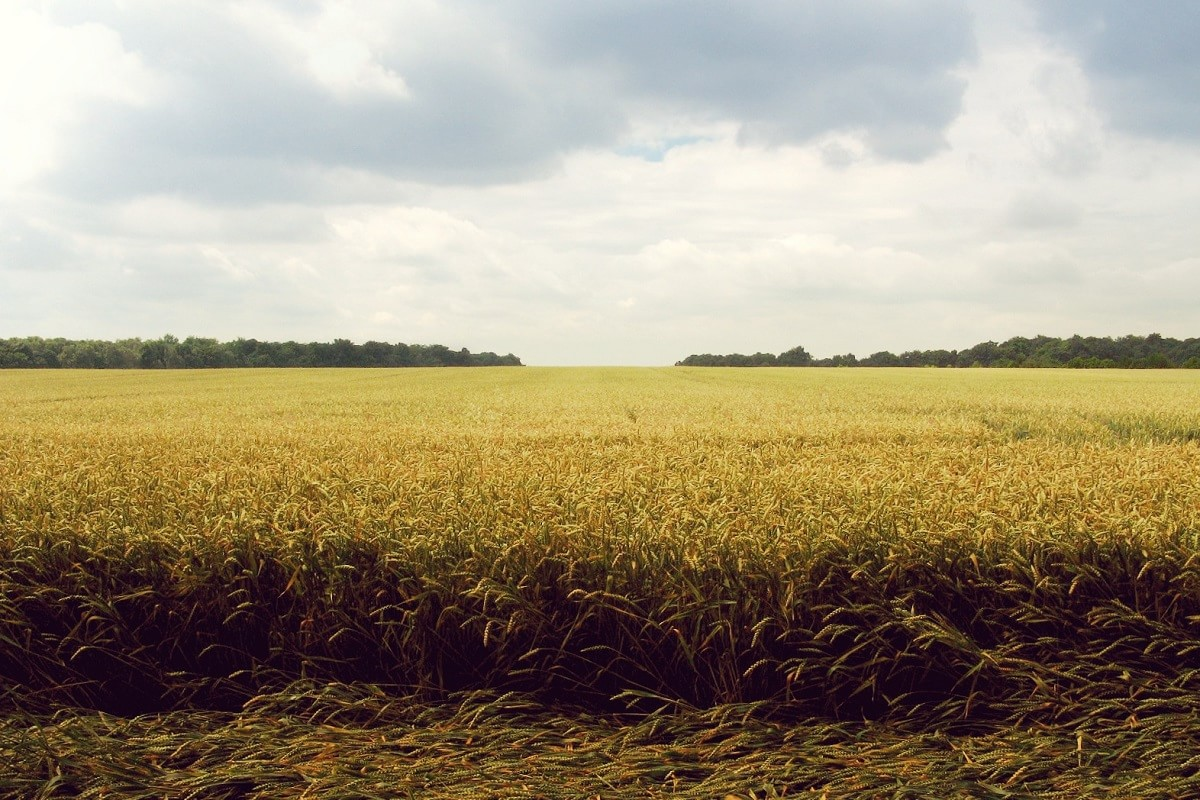
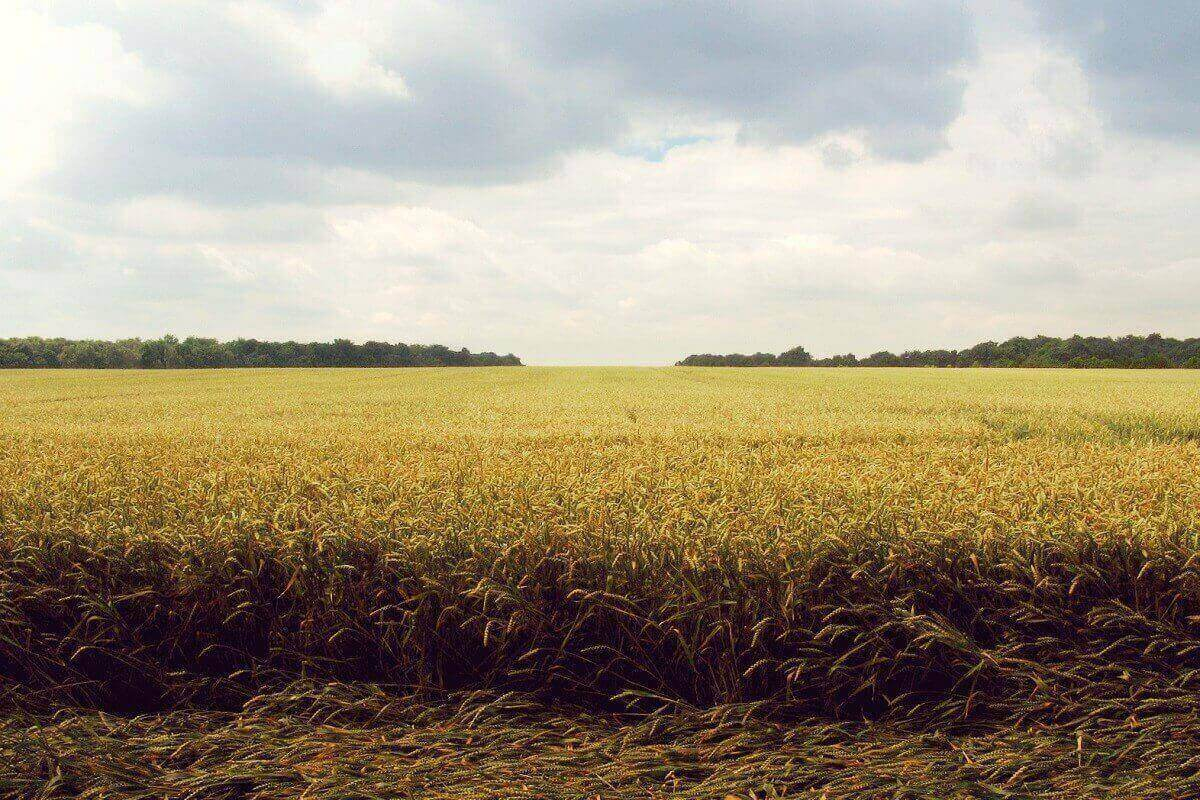
added real paypal button, compressed images

Changed region(s): [[0.0, 0.4062, 1.0, 1.0], [0.4317, 0.8125, 0.4933, 0.8438], [0.1233, 0.4062, 0.1542, 0.4375]]

diff --git a/assets/css/layout.css b/assets/css/layout.css
@@ -7554,224 +7554,3 @@ ul.search-history {
 	}
 
 }
-
-
-
-
-
-
-
-
-
-
-
-
-
-/** DEMO ONLY
-	DO NOT USE THIS CSS - USED FOR DEMO ONLY!
- **************************************************************** **/
-.iconsPreview a {
-	text-decoration:none;
-}
- .iconsPreview .fa-hover a {
-	display:block;
-	padding:4px;
-	text-decoration:none;
-}
-.iconsPreview .fa-hover a:hover {
-	background-color:#f3f3f3;
-}
-.iconsPreview .fa-hover i {
-	width:20px;
-	margin-right:10px;
-	color:#333 !important;
-}
-.iconsPreview .fa-hover a span {
-	color:#666;
-}
-/** *** **/
-
-.iconFlags a {
-	text-decoration:none;
-}
-.iconFlags .flag-icon {
-	padding-top:4px;
-	padding-bottom:4px;
-	cursor:pointer;
-	display:block;
-}
-.iconFlags .flag-icon img {
-	display:inline-block;
-	margin-right:6px;
-}
-.iconFlags .flag-icon:hover {
-	background-color:#f3f3f3;
-}
-
-.bs-glyphicons a {
-	text-decoration:none;
-}
-.bs-glyphicons .glyphicon-class {
-	display: block;
-	text-align: center;
-	word-wrap: break-word;
-}
-.bs-glyphicons .glyphicon {
-	margin-top: 5px;
-	margin-bottom: 10px;
-	font-size: 24px;
-}
-.bs-glyphicons li {
-	float: left;
-	width: 25%;
-	height: 115px;
-	padding: 10px;
-	font-size: 10px;
-	line-height: 1.4;
-	text-align: center;
-	border: 1px solid #fff;
-	background-color: #f9f9f9;
-	cursor:pointer;
-	padding-top: 20px;
-}
-.bs-glyphicons li:hover {
-	background-color:#f3f3f3;
-}
-@media (min-width: 769px) {
-	.bs-glyphicons li {
-		width: 12.5%;
-		font-size: 12px;
-	}
-}
-.iconExamples a {
-	text-decoration:none;
-}
-.iconExamples .example {
-	text-align: center;
-	cursor:pointer;
-	padding:6px 3px;
-}
-.iconExamples .example:hover {
-	background-color:#f3f3f3;
-}
-.iconExamples .example:before,
-.iconExamples .example:after {
-	content: " ";
-	display: table;
-}
-.iconExamples .example .icon {
-	font-size: 20px;
-	float: left;
-	width: 35px;
-}
-.iconExamples .example .class {
-	text-align: center;
-	float: left;
-	margin-top: 0;
-	font-weight: 400;
-	margin-left: 10px;
-	color: #333;
-}
-
-
-
-/** *** **/
-.row.show-grid,
-.row.show-grid>div {
-	padding:0;
-}
-.grid-block {
-	background-color: #EEE;
-	border: 1px solid #FFF;
-	display: block;
-	line-height: 40px;
-	min-height: 40px;
-	text-align: center;
-}
-.grid-color span {
-	display:block;
-	padding: 10px 0;
-	text-align: center;
-	background-color:rgba(0,0,0,0.1);
-}
-.grid-demo [class*="col-"] {
-	background: #fafafa;
-	border: 1px solid;
-	border-color: #ddd;
-	padding: 10px;
-	text-align: center;
-	margin-bottom:20px;
-}
-.grid-demo .row {
-	margin-left:0;
-	margin-right:0;
-}
-
-/** *** **/
-.linecon a {
-	text-decoration:none;
-}
-.linecon .icon {
-	width: 12.5%;
-	float: left;
-	height: 115px;
-	text-align: center;
-	padding: 22px 10px;
-	margin: 0 -1px -1px 0;
-	border: 1px solid #fff;
-	background-color: #f6f6f6;
-	word-wrap: break-word;
-	cursor:pointer;
-}
-.linecon .icon:hover {
-	background-color:#f3f3f3;
-}
-.linecon .icon i {
-	display: block;
-	font-size: 30px;
-	margin-bottom: 10px;
-}
-
-/** *** **/
-.colors-bg-demo {
-	padding:3px;
-	margin-top:3px;
-}
-
-
-/** et line icons */
-
-
-.et-line-icons li>i {
-	margin-top: 5px;
-	margin-bottom: 10px;
-	font-size: 26px;
-	display:block;
-	text-align:center;
-	color:#000;
-	margin-top:25px;
-}
-.et-line-icons li>span {
-	font-size:13px;
-}
-.et-line-icons li {
-	float: left;
-	width: 25%;
-	height: 115px;
-	padding: 10px;
-	font-size: 10px;
-	line-height: 1.4;
-	text-align: center;
-	border: 1px solid #fff;
-	background-color: #f9f9f9;
-	cursor:pointer;
-}
-.et-line-icons li:hover {
-	background-color:#f3f3f3;
-}
-@media (min-width: 769px) {
-	.et-line-icons li {
-		width: 12.5%;
-		font-size: 12px;
-	}
-}
